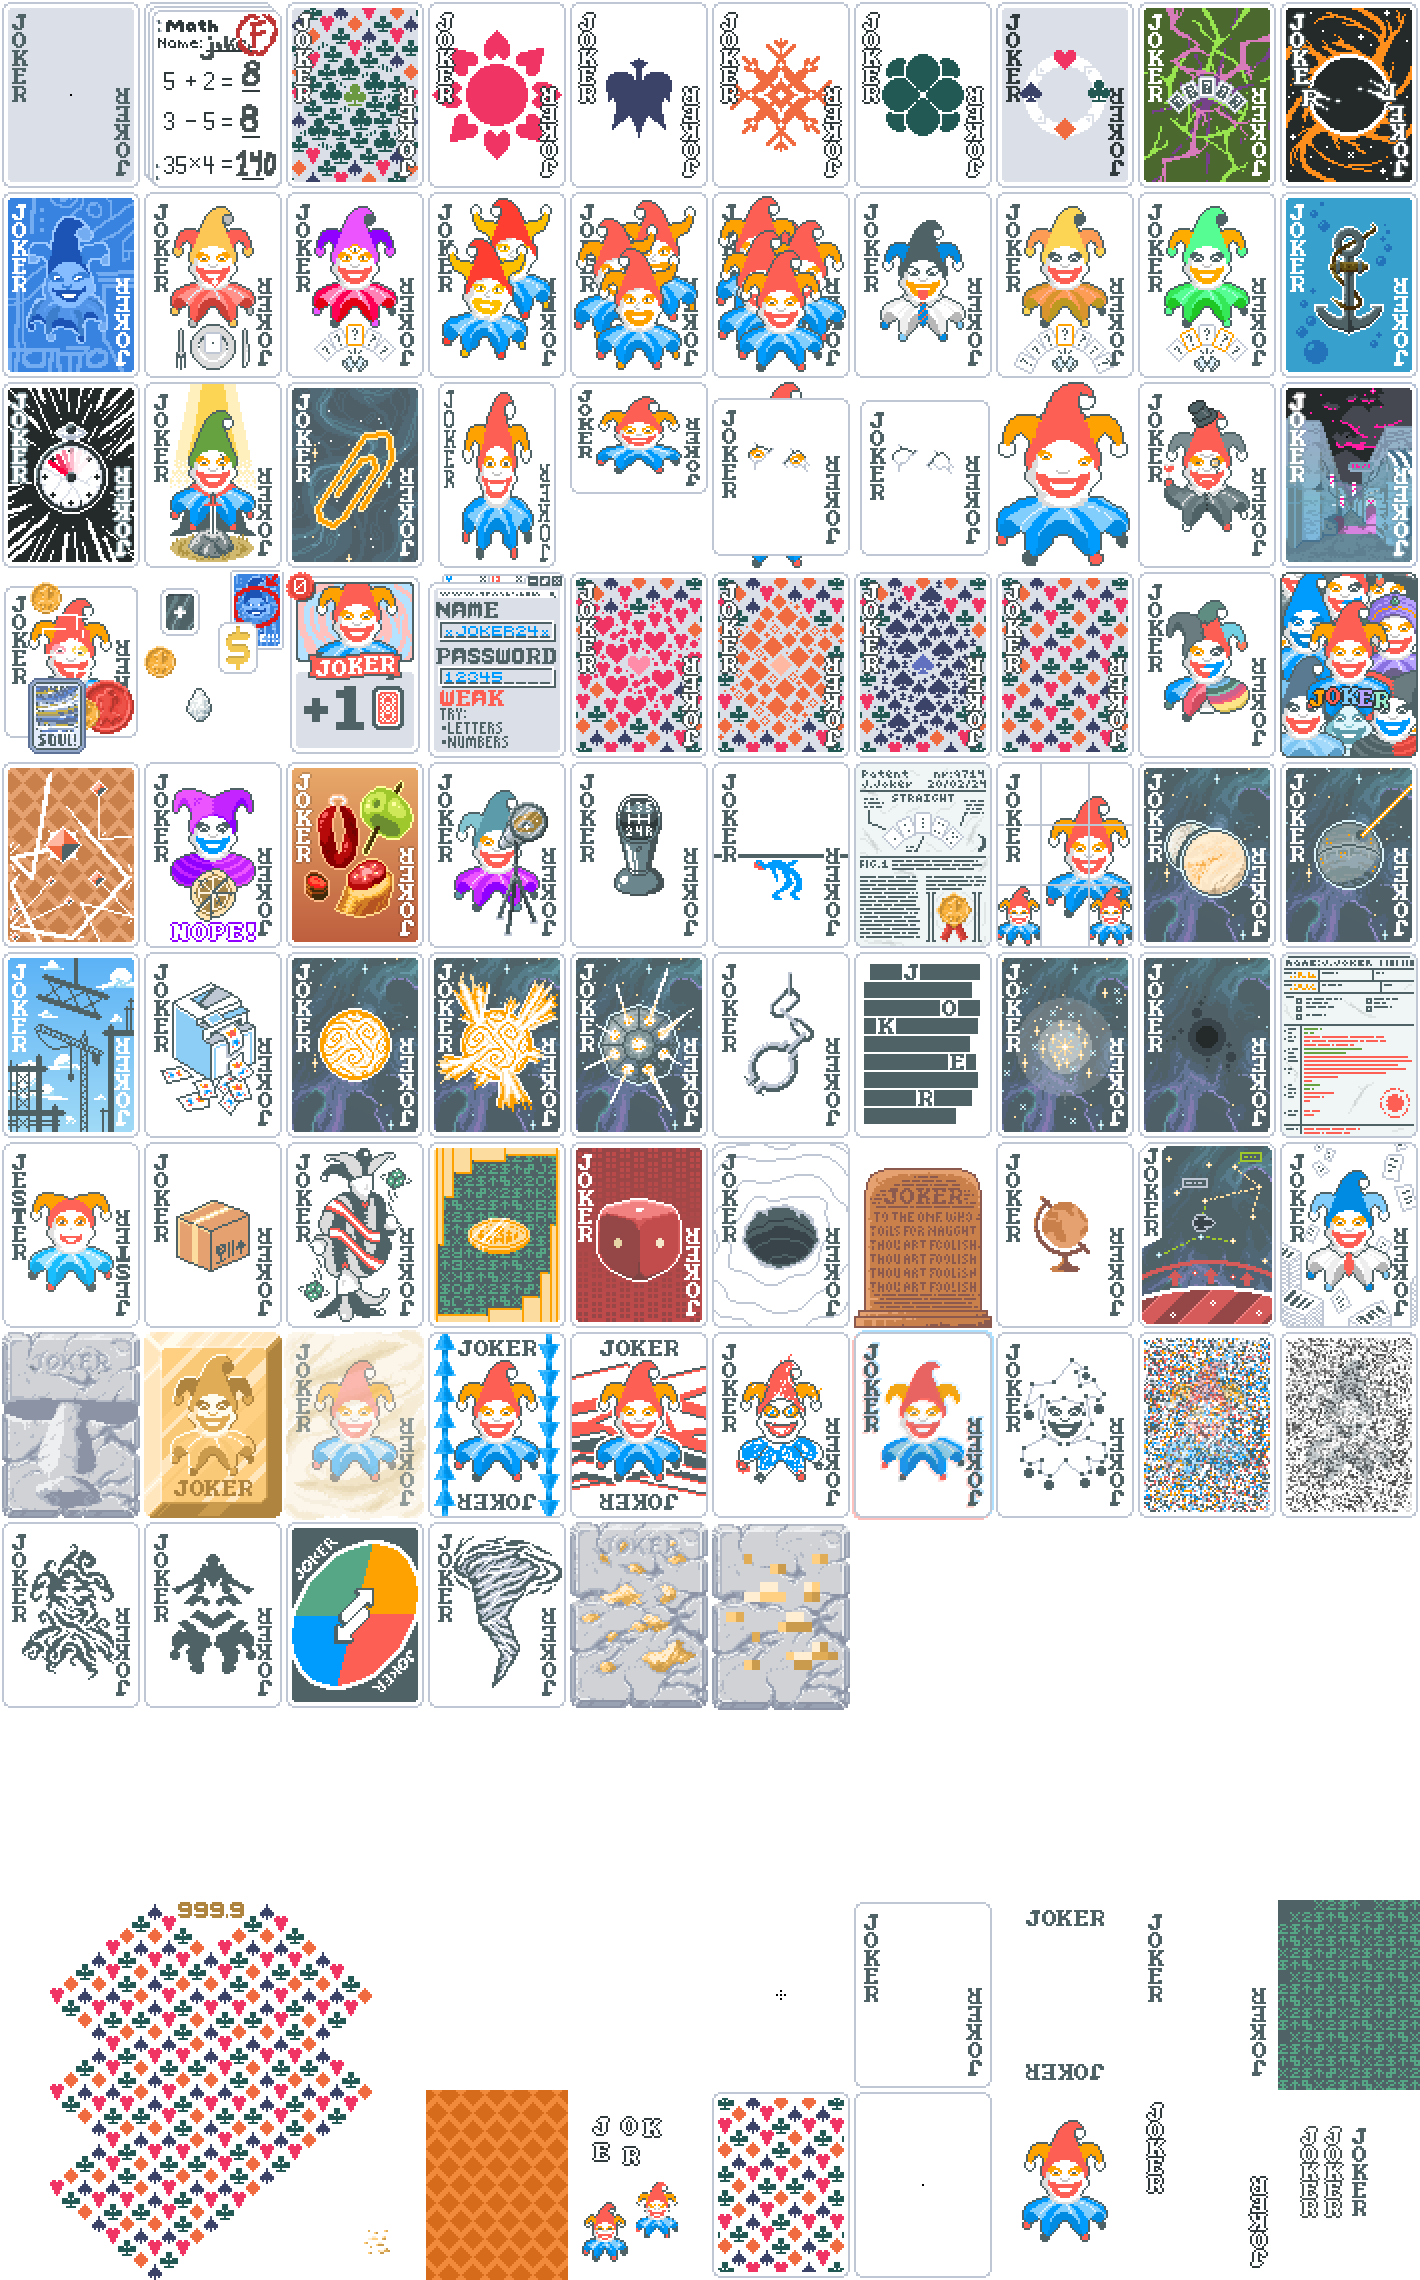
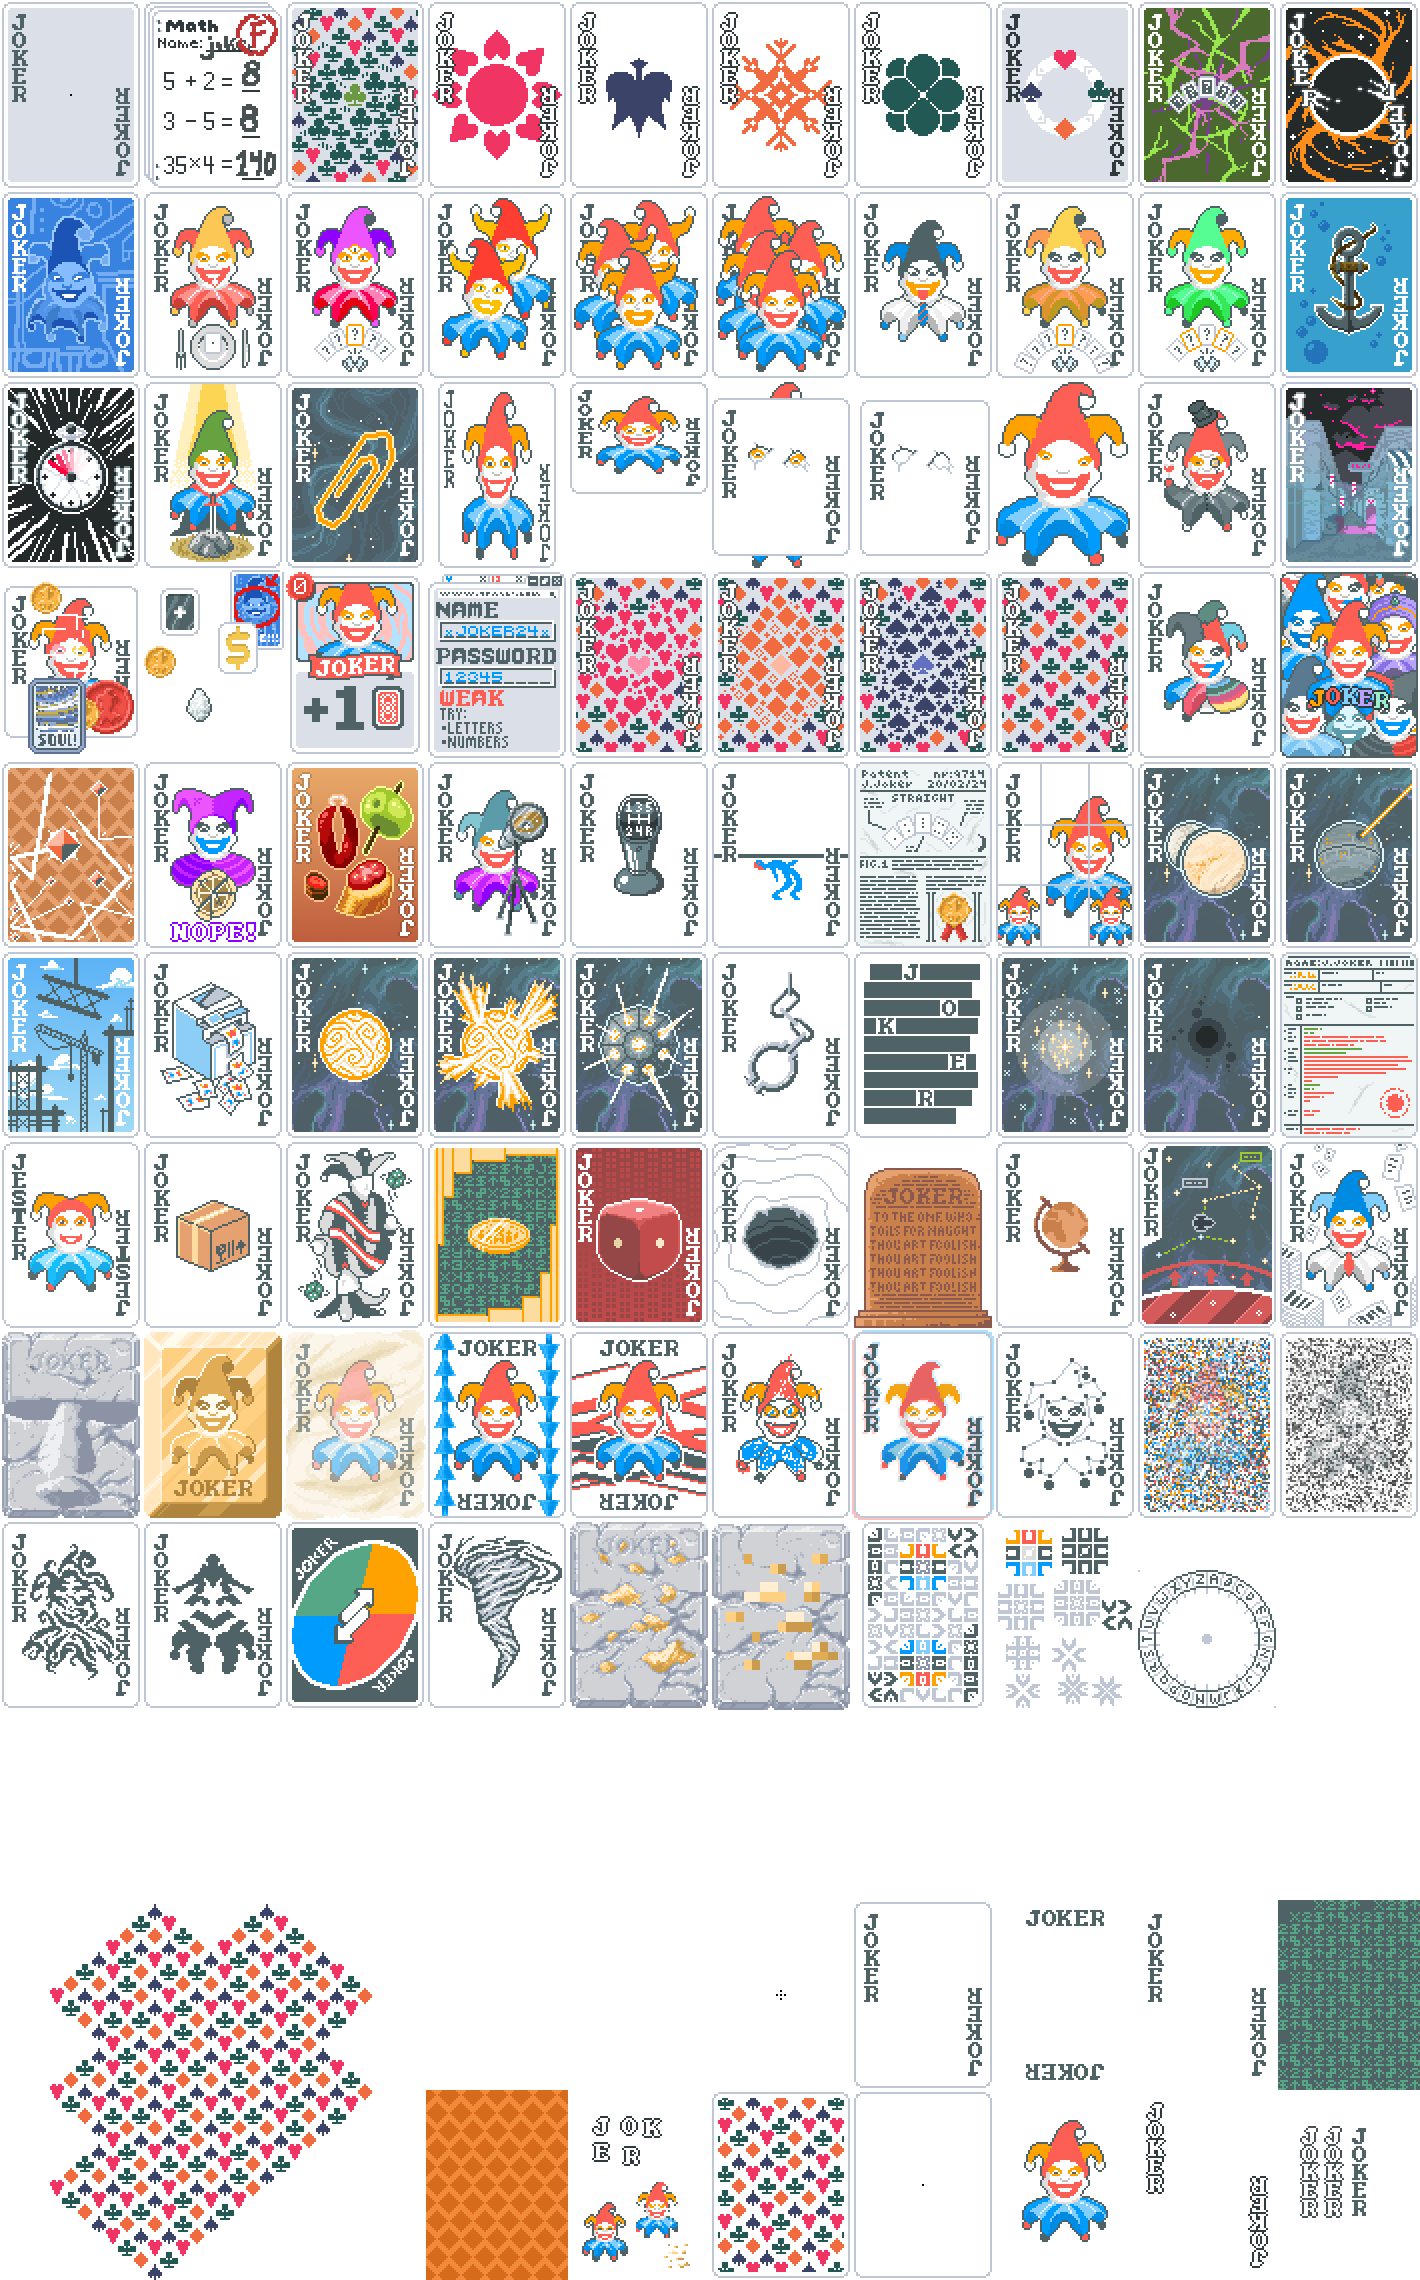
Add Cryptogram

Changed region(s): [[0.5887, 0.6539, 0.8986, 0.7474], [0.1239, 0.8096, 0.1549, 0.8408]]

diff --git a/web/addjokers.js b/web/addjokers.js
@@ -625,6 +625,15 @@ let jokers = [
     image_url: "img/j/moai.png",
     rarity: "Uncommon"
   },
+  {
+    name: "Cryptogram",
+    text: [
+        "{C:attention}+2{} hand size",
+        "First hand is drawn face down",
+    ],
+    image_url: "img/j/cryptogram.png",
+    rarity: "Uncommon"
+  },
 
   // {
   //   name: "",
